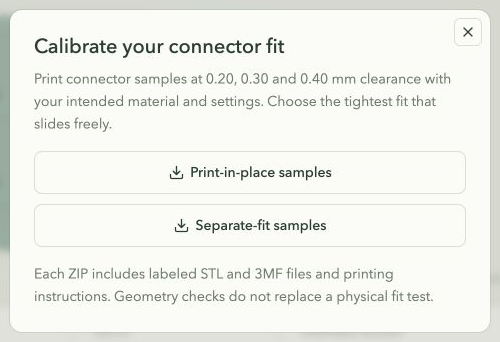
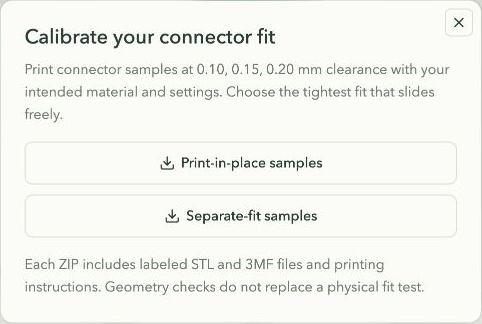
scaling down after fit test

Changed region(s): [[0.0, 0.0, 1.0, 1.0], [0.3112, 0.463, 0.6846, 0.5247], [0.3423, 0.6481, 0.6535, 0.7099]]

diff --git a/lib/model/calibration.ts b/lib/model/calibration.ts
@@ -1,6 +1,7 @@
 import { zipSync, strToU8 } from 'fflate';
 import {
   DIM,
+  CALIBRATION_FITS,
   initialConfig,
   type Clearances,
   type Configuration,
@@ -98,7 +99,7 @@ export function makeCalibration(
   };
 }
 /**
- * Builds labeled STL/3MF samples at fit clearances 0.20, 0.30 and 0.40 mm.
+ * Builds labeled STL/3MF samples at fit clearances 0.10, 0.15 and 0.20 mm.
  * @param engine Geometry cache shared across the three samples.
  * @param config Supplies wallGap and axial clearance; its fit value is replaced per sample.
  * @param separate Selects separately printed strips or pre-interlocked strips.
@@ -110,7 +111,7 @@ export function calibrationZip(
   separate: boolean,
 ): Uint8Array {
   const files: Record<string, Uint8Array> = {};
-  for (const fit of [0.2, 0.3, 0.4]) {
+  for (const fit of CALIBRATION_FITS) {
     const sample = makeCalibration(
       engine,
       { ...config.clearances, fit },
@@ -121,7 +122,7 @@ export function calibrationZip(
     files[`${name}.3mf`] = export3MF(sample.result, sample.config);
   }
   files['READ-ME.txt'] = strToU8(
-    `HONEYCOMB CONNECTOR CALIBRATION\n\nThe filename identifies connector clearance per mating surface: 0.20, 0.30, or 0.40 mm. Print one labeled file at a time to keep samples identified.\n\nWall gap: ${config.clearances.wallGap.toFixed(2)} mm. Front-stop clearance: ${config.clearances.axial.toFixed(2)} mm.\n\nUse the printer, material, nozzle and layer profile intended for your display. Print flat backs on the bed, all layers together, supports OFF. Preserve all component positions. Do not use automatic gap closing or merge separate bodies. Compensate elephant foot as appropriate for your calibrated slicer profile.\n\n${separate ? 'The two strips are separated on the bed. Slide the female strip over the tapered end of the male rail until their fronts align.' : 'These two strips print already interlocked. After cooling, slide the female strip toward the open front (+Z) to release it; slide back to reassemble.'}\n\nChoose the smallest clearance that releases and slides comfortably without tools. Do not force a binding joint. Repeat assembly several times and check for cracking or excessive looseness. Apply the chosen settings to BOTH single pods and assemblies.\n\nThese are geometry-validated starting points, not a claim of physical validation on your printer. STL uses millimeters; 3MF preserves the separate parts and positions.\n`,
+    `HONEYCOMB CONNECTOR CALIBRATION\n\nThe filename identifies connector clearance per mating surface: ${CALIBRATION_FITS.map((fit) => fit.toFixed(2)).join(', ')} mm. Print one labeled file at a time to keep samples identified.\n\nWall gap: ${config.clearances.wallGap.toFixed(2)} mm. Front-stop clearance: ${config.clearances.axial.toFixed(2)} mm.\n\nUse the printer, material, nozzle and layer profile intended for your display. Print flat backs on the bed, all layers together, supports OFF. Preserve all component positions. Do not use automatic gap closing or merge separate bodies. Compensate elephant foot as appropriate for your calibrated slicer profile.\n\n${separate ? 'The two strips are separated on the bed. Slide the female strip over the tapered end of the male rail until their fronts align.' : 'These two strips print already interlocked. After cooling, slide the female strip toward the open front (+Z) to release it; slide back to reassemble.'}\n\nThese are sliding dovetails, not snap latches. Start with 0.15 mm if 0.20 mm was too loose; use 0.10 mm if more friction is needed. Smaller gaps can fuse in print-in-place samples.\n\nChoose the smallest clearance that releases and slides comfortably without tools. Do not force a binding joint. Repeat assembly several times and check for cracking or excessive looseness. Apply the chosen settings to BOTH single pods and assemblies.\n\nThese are geometry-validated starting points, not a claim of physical validation on your printer. STL uses millimeters; 3MF preserves the separate parts and positions.\n`,
   );
   return zipSync(files, { level: 6 });
 }

diff --git a/app/page.tsx b/app/page.tsx
@@ -46,6 +46,7 @@ import { useModel } from '@/lib/model/use-model';
 import { makeLayout, toggleEdge } from '@/lib/model/layout';
 import {
   initialConfig,
+  CALIBRATION_FITS,
   availableEdges,
   isMale,
   type Configuration,
@@ -528,7 +529,7 @@ export default function Home() {
               {(
                 [
                   ['wallGap', 'Wall gap', 0.2, 0.8],
-                  ['fit', 'Connector clearance', 0.15, 0.5],
+                  ['fit', 'Connector clearance', CALIBRATION_FITS[0], 0.5],
                   ['axial', 'Front-stop clearance', 0.2, 1],
                 ] as const
               ).map(([key, label, min, max]) => (
@@ -709,9 +710,10 @@ export default function Home() {
                 <DialogHeader>
                   <DialogTitle>Calibrate your connector fit</DialogTitle>
                   <DialogDescription>
-                    Print connector samples at 0.20, 0.30 and 0.40 mm clearance
-                    with your intended material and settings. Choose the
-                    tightest fit that slides freely.
+                    Print connector samples at{' '}
+                    {CALIBRATION_FITS.map((fit) => fit.toFixed(2)).join(', ')}{' '}
+                    mm clearance with your intended material and settings.
+                    Choose the tightest fit that slides freely.
                   </DialogDescription>
                 </DialogHeader>
                 <div className="calibration-actions">

diff --git a/tests/export.test.ts b/tests/export.test.ts
@@ -99,7 +99,16 @@ void test('calibration archives include three fits in both formats and separate 
     const files = unzipSync(calibrationZip(engine, initialConfig(), separate));
     assert.equal(Object.keys(files).length, 7);
     assert.ok(files['READ-ME.txt']);
-    for (const fit of [0.2, 0.3, 0.4]) {
+    for (const fit of [0.1, 0.15, 0.2]) {
+      // Assert the public download contents independently of the shared sample list.
+      const stem = `${separate ? 'separate-fit' : 'print-in-place'}-${fit.toFixed(2)}mm`;
+      assert.ok(files[`${stem}.stl`]);
+      const sample = unzipSync(files[`${stem}.3mf`]);
+      assert.equal(
+        JSON.parse(strFromU8(sample['Metadata/honeycomb.json'])).config
+          .clearances.fit,
+        fit,
+      );
       const { result } = makeCalibration(
         engine,
         { wallGap: 0.3, fit, axial: 0.4 },

diff --git a/scripts/validate-models.ts b/scripts/validate-models.ts
@@ -7,7 +7,12 @@
 import { mkdir, writeFile } from 'node:fs/promises';
 import { resolve } from 'node:path';
 import { GeometryEngine } from '../lib/model/geometry';
-import { initialConfig, EDGES, type Configuration } from '../lib/model/types';
+import {
+  initialConfig,
+  EDGES,
+  CALIBRATION_FITS,
+  type Configuration,
+} from '../lib/model/types';
 import { exportSTL, export3MF } from '../lib/model/export';
 import { calibrationZip, makeCalibration } from '../lib/model/calibration';
 const destination = resolve(process.argv[2] ?? 'generated');
@@ -60,7 +65,7 @@ try {
       ),
       calibrationZip(engine, initialConfig(), separate),
     );
-    for (const fit of [0.2, 0.3, 0.4]) {
+    for (const fit of CALIBRATION_FITS) {
       const { config, result } = makeCalibration(
         engine,
         { wallGap: 0.3, fit, axial: 0.4 },

diff --git a/lib/model/types.ts b/lib/model/types.ts
@@ -52,6 +52,8 @@ export const DIM = {
   /** Controls the taper shrinkage relative to the largest local profile extent. */
   tip: 0.12,
 } as const;
+/** Sample normal clearances per mating surface (mm), ordered from tightest to loosest. */
+export const CALIBRATION_FITS = [0.1, 0.15, 0.2] as const;
 /** Printer calibration settings shared by standalone pods and assemblies. */
 export interface Clearances {
   /** Separation between neighboring exterior wall planes (mm). */
@@ -210,7 +212,7 @@ export function validateConfig(c: Configuration): string[] {
     errors.push('Use 1–20 columns and rows.');
   for (const [key, min, max] of [
     ['wallGap', 0.2, 0.8],
-    ['fit', 0.15, 0.5],
+    ['fit', CALIBRATION_FITS[0], 0.5],
     ['axial', 0.2, 1.0],
   ] as const) {
     const value = c.clearances?.[key];

diff --git a/tests/geometry.test.ts b/tests/geometry.test.ts
@@ -71,7 +71,7 @@ void test('unconnected pod preserves opening, exterior and solid wall dimensions
   center.delete();
 });
 void test('three directions, multiple fits, and half substitutions have clearance and continuous removal', () => {
-  for (const fit of [0.15, 0.3, 0.5])
+  for (const fit of [0.1, 0.15, 0.2, 0.3, 0.5])
     for (const kind of ['full', 'half'] as const) {
       const c = {
         ...initialConfig(),
@@ -83,7 +83,7 @@ void test('three directions, multiple fits, and half substitutions have clearanc
       };
       const r = engine.generate(c);
       assert.deepEqual(r.errors, [], JSON.stringify(c));
-      assert.ok(r.minGap! > 0.1);
+      assert.ok(r.minGap! > Math.min(0.1, fit / 2));
       assert.equal(r.layout.order.length, 4);
     }
 });

diff --git a/scripts/slice-verify.py b/scripts/slice-verify.py
@@ -23,7 +23,7 @@ process.update(name='Honeycomb validation', wall_loops='3', sparse_infill_densit
 process_path=work/'process.json'
 process_path.write_text(json.dumps(process))
 report={'application':'Bambu Studio 02.08.02.61','profile':{'printer':'Bambu Lab X1 Carbon 0.4 nozzle','material':'Generic PLA','layer_height_mm':0.2,'wall_loops':3,'infill':'15%','supports':False},'physical_validation':False,'models':{}}
-names=sys.argv[1:] or ['closed_pod','all_connectors','half_pod','assembly_3x3','edited_assembly','calibration_in_place_0.20','calibration_in_place_0.30','calibration_in_place_0.40','calibration_separate_0.20','calibration_separate_0.30','calibration_separate_0.40']
+names=sys.argv[1:] or ['closed_pod','all_connectors','half_pod','assembly_3x3','edited_assembly','calibration_in_place_0.20','calibration_in_place_0.10','calibration_in_place_0.15','calibration_separate_0.20','calibration_separate_0.10','calibration_separate_0.15']
 for name in names:
     folder=work/name
     folder.mkdir(exist_ok=True)

diff --git a/scripts/check-exports.py b/scripts/check-exports.py
@@ -49,7 +49,7 @@ for file in sorted(models.glob('*.stl')):
 # Sample the first layer, back, mid-depth, rail end and front-stop region.
 # This selection supplements the exact solid sweep checks; it is not exhaustive.
 samples={.2,2.4,10.,19.8,20.2,20.6,22.}
-for name in ['assembly_3x3','edited_assembly','calibration_in_place_0.20','calibration_in_place_0.30','calibration_in_place_0.40']:
+for name in ['assembly_3x3','edited_assembly','calibration_in_place_0.20','calibration_in_place_0.10','calibration_in_place_0.15']:
     file=root/'work/slicing'/name/'plate_1.gcode'
     # Read slicer-owned transforms, including its recentering of each part.
     with zipfile.ZipFile(file.parent/'sliced.3mf') as archive:

diff --git a/README.md b/README.md
@@ -88,9 +88,9 @@ Flat-bottom fillers are trimmed by half the wall gap (0.15 mm at the default set
 
 ## Fit and printing
 
-Default calibration starting points are 0.30 mm between pod walls, 0.30 mm normal clearance per mating connector surface, and 0.40 mm between male tips and female front stops. Use matching settings when mixing individually generated pods and assemblies. Supported adjustment ranges are 0.20–0.80 mm wall gap, 0.15–0.50 mm fit, and 0.20–1.00 mm axial clearance.
+Default calibration starting points are 0.30 mm between pod walls, 0.30 mm normal clearance per mating connector surface, and 0.40 mm between male tips and female front stops. Use matching settings when mixing individually generated pods and assemblies. Supported adjustment ranges are 0.20–0.80 mm wall gap, 0.10–0.50 mm fit, and 0.20–1.00 mm axial clearance.
 
-Download the calibration ZIPs for 0.20, 0.30 and 0.40 mm connector fits. Each contains three small, filename-labeled STL/3MF pairs and instructions. Print one file at a time to keep the fit samples identified. Separate-fit strips assemble after printing; print-in-place strips start interlocked. Calibrate with your intended printer, material, nozzle and layer profile.
+Download the calibration ZIPs for 0.10, 0.15 and 0.20 mm connector fits. Each contains three small, filename-labeled STL/3MF pairs and instructions. Print one file at a time to keep the fit samples identified. Separate-fit strips assemble after printing; print-in-place strips start interlocked. Calibrate with your intended printer, material, nozzle and layer profile. If 0.20 mm slides too loosely, try 0.15 mm, then 0.10 mm. These sliding joints rely on friction for axial retention; they do not click into a latch. Smaller print-in-place gaps may fuse on some setups.
 
 - Print the solid backs on the build plate, with all parts printed layer by layer.
 - Keep the supplied relative part positions. In a slicer import the 3MF assembly as one object with multiple parts, not independently arranged objects.
